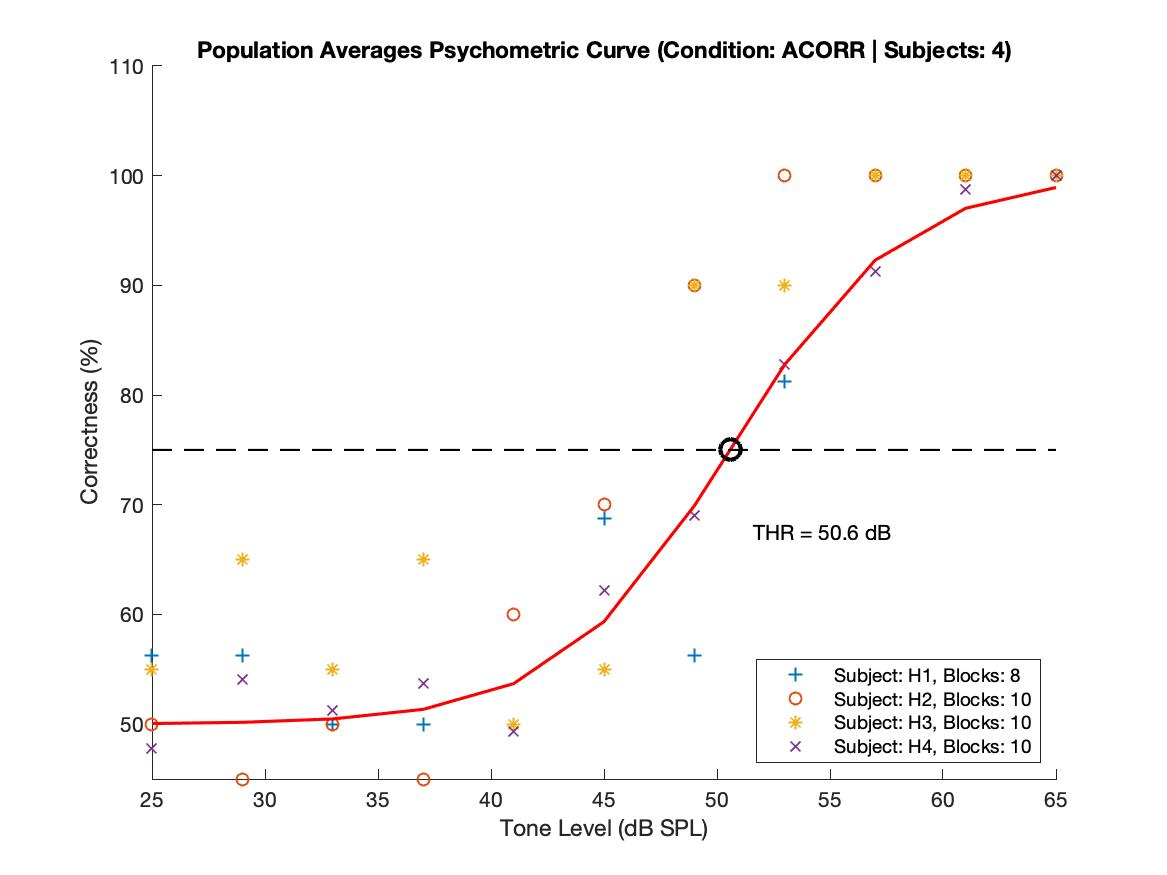
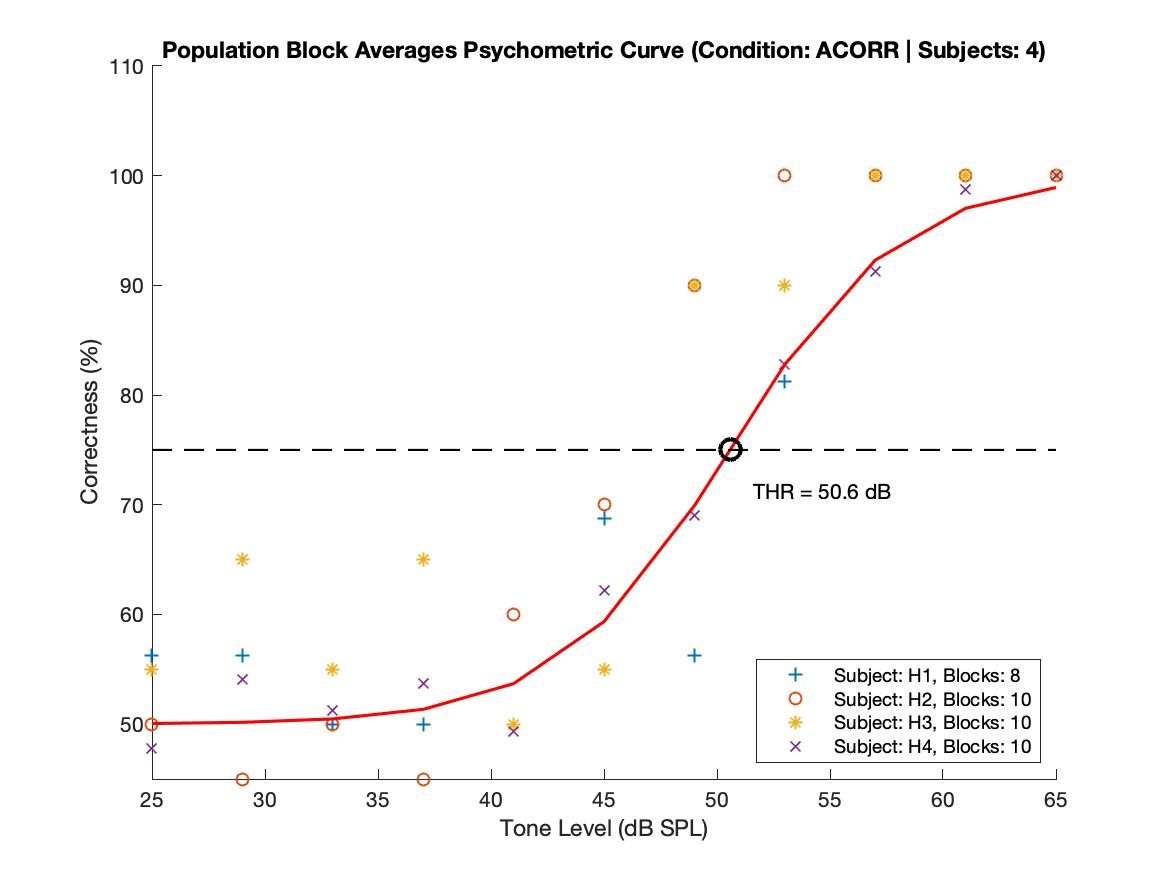
Psychometric Curve/Thresholds for all conditions

Changed region(s): [[0.1234, 0.0309, 0.8946, 0.0926], [0.6478, 0.5554, 0.7712, 0.6171]]

diff --git a/CMR_stimgeneration/PsychometricCurve_CMR.m b/CMR_stimgeneration/PsychometricCurve_CMR.m
@@ -6,7 +6,8 @@
 % Generate psychometric curves for REF, CORR, and ACORR conditions from user data for CMR pilot testing.
 clear all; close all; clc;
 %% Requirement
-CMRstimuli = input('\nType of CMR stimuli: ','s');
+criteria = 75; % percent correctness threshold
+CMRstimuli = input('\nCMR stimuli: ','s');
 %% Load subject's matlab data file
 % Load all blocks from user files from CMRpilot_results folder
 fprintf('\nAnalyze individual subject data -- 1'); 
@@ -21,7 +22,7 @@ if menuresponse == 1
     userid = input('\nUser ID: ','s');
     blocks = input('Number of blocks: ');
     cd CMRpilot_results % open pilot data folder
-    cd CMR2C % CHANGE FOLDER TO TYPE OF STIMULI
+    cd CMR2B % CHANGE FOLDER TO TYPE OF STIMULI
 % load block files for subject based on userid    
     for i = 1:blocks   
         filename = [userid '_Block' num2str(i) '_' CMRstimuli '_Pilot_Results.mat'];
@@ -73,7 +74,6 @@ hold off;
 counter = counter + 1; 
 end
 %% Psychometric curve generation average
-criteria = 75; % 
 REFplot = sprintf('Psychometric Curve (Condition: REF | User ID: %s)', userid);
 CORRplot = sprintf('Psychometric Curve (Condition: CORR | User ID: %s)', userid);
 ACORRplot = sprintf('Psychometric Curve (Condition: ACORR | User ID: %s)', userid);
@@ -81,15 +81,20 @@ ACORRplot = sprintf('Psychometric Curve (Condition: ACORR | User ID: %s)', useri
 figure(1); % REF 
 hold on;
 title(REFplot); xlabel('Tone Level (dB)'); ylabel('Correctness (%)'); xlim([levelVEC_tone_dBSPL(1) levelVEC_tone_dBSPL(end)]); ylim([0,110]);
-REF_TH = fitPsychometricFunctionCMR(REFresults_avg(:,1), REFresults_avg(:,(blocks+2)), 1, criteria);
+[REF_TH,REF_MSE,REF_fit_vec_dB,REF_fit_correctness_vec] = fitPsychometricFunctionCMR(REFresults_avg(:,1), REFresults_avg(:,(blocks+2)), 1, criteria);
 legend(plotlegend(1:blocks,:),'Location','SouthEast');
 hold off;
 
 figure(2); % CORR
 hold on;
 title(CORRplot); xlabel('Tone Level (dB)'); ylabel('Correctness (%)'); xlim([levelVEC_tone_dBSPL(1) levelVEC_tone_dBSPL(end)]); ylim([0,110]);
-CORR_TH = fitPsychometricFunctionCMR(CORRresults_avg(:,1), CORRresults_avg(:,(blocks+2)), 1, criteria);
-%plot(CORRresults_avg(:,1), CORRresults_avg(:,(blocks+2)), 'r', 'linewidth',1.5); CORR_TH = NaN;
+if min(CORRresults_avg(:,blocks+2)) > 75 % no intersection at 75%
+    plot(CORRresults_avg(:,1), CORRresults_avg(:,(blocks+2)), 'r', 'linewidth',1.5); CORR_TH = NaN;
+    CORR_fit_vec_dB = CORRresults_avg(:,1);
+    CORR_fit_correctness_vec = CORRresults_avg(:,(blocks+2));
+else
+    [CORR_TH,CORR_MSE,CORR_fit_vec_dB,CORR_fit_correctness_vec] = fitPsychometricFunctionCMR(CORRresults_avg(:,1), CORRresults_avg(:,(blocks+2)), 1, criteria);
+end
 legend(plotlegend(1:blocks,:),'Location','SouthEast');
 hold off;
 
@@ -97,18 +102,35 @@ figure(3); % ACORR
 
 hold on;
 title(ACORRplot); xlabel('Tone Level (dB)'); ylabel('Correctness (%)'); xlim([levelVEC_tone_dBSPL(1) levelVEC_tone_dBSPL(end)]); ylim([0,110]);
-ACORR_TH = fitPsychometricFunctionCMR(ACORRresults_avg(:,1), ACORRresults_avg(:,(blocks+2)), 1, criteria);
+[ACORR_TH,ACORR_MSE,ACORR_fit_vec_dB,ACORR_fit_correctness_vec] = fitPsychometricFunctionCMR(ACORRresults_avg(:,1), ACORRresults_avg(:,(blocks+2)), 1, criteria);
 legend(plotlegend(1:blocks,:),'Location','SouthEast');
 hold off;
 
+figure(4); % ALL conditions
+hold on;
+plot(REF_fit_vec_dB,REF_fit_correctness_vec,'k','linewidth',1.5); % REF curve fit - black
+plot(CORR_fit_vec_dB,CORR_fit_correctness_vec,'r','linewidth',1.5); % CORR curve fit - red
+plot(ACORR_fit_vec_dB,ACORR_fit_correctness_vec,'b','linewidth',1.5); % ACORR curve fit - blue
+plot(REF_TH,criteria,'ok','markersize',10,'linewidth',2); % REF Threshold
+text(REF_TH+1,.95*criteria,sprintf('REF = %.1f dB',REF_TH)); % REF Threshold label
+plot(CORR_TH,criteria,'ok','markersize',10,'linewidth',2); % CORR Threshold
+text(CORR_TH-1,.95*criteria,sprintf('CORR = %.1f dB',CORR_TH)); % CORR Threshold label
+plot(ACORR_TH,criteria,'ok','markersize',10,'linewidth',2); % ACORR Threshold
+text(ACORR_TH+1,.95*criteria,sprintf('ACORR = %.1f dB',ACORR_TH)); % ACORR Threshold label
+plot(levelVEC_tone_dBSPL,criteria*ones(size(levelVEC_tone_dBSPL)),'--k','markersize',10,'linewidth',1); % threshold line
+title('Population Block Average (All Conditions)'); 
+xlabel('Tone Level (dB SPL)'); ylabel('Correctness (%)'); xlim([levelVEC_tone_dBSPL(1) levelVEC_tone_dBSPL(end)]); ylim([45,110]);
+hold off;
+
 cd CMRpilot_results
-cd CMR2C % CHANGE FOLDER TO TYPE OF STIMULI
-cd Psychometric_Curves_CMR2C % CHANGE FOLDER TO TYPE OF STIMULI
-cd Subject_Average_CMR2C % CHANGE FOLDER TO TYPE OF STIMULI
+cd CMR2B % CHANGE FOLDER TO TYPE OF STIMULI
+cd Psychometric_Curves_CMR2B % CHANGE FOLDER TO TYPE OF STIMULI
+cd Subject_Average_CMR2B % CHANGE FOLDER TO TYPE OF STIMULI
 plotnameREF = sprintf('%s_Block_Averages_REF_%s_Pilot_Results.jpg',userid, CMRstimuli);
 plotnameCORR = sprintf('%s_Block_Averages_CORR_%s_Pilot_Results.jpg',userid, CMRstimuli);
 plotnameACORR = sprintf('%s_Block_Averages_ACORR_%s_Pilot_Results.jpg',userid, CMRstimuli);
-saveas(figure(1), plotnameREF); saveas(figure(2), plotnameCORR); saveas(figure(3), plotnameACORR);
+plotnameALL = sprintf('%s_Block_Averages_ALL_%s_Pilot_Results.jpg',userid, CMRstimuli);
+saveas(figure(1), plotnameREF); saveas(figure(2), plotnameCORR); saveas(figure(3), plotnameACORR); saveas(figure(4), plotnameALL);
 cd ../
 cd ../
 cd ../
@@ -128,7 +150,7 @@ REFtotalavg = []; CORRtotalavg = []; ACORRtotalavg = [];
 if menuresponse == 2
     numsubjects = input('\nNumber of Subjects: ');
     cd CMRpilot_results % open pilot data folder   
-    cd CMR2C % CHANGE FOLDER TO TYPE OF STIMULI
+    cd CMR2B % CHANGE FOLDER TO TYPE OF STIMULI
 % load files for each subject based on userid  
 plotlegend = string(zeros(numsubjects,1));
 for i = 1:numsubjects
@@ -198,44 +220,57 @@ hold off;
 counter = counter + 1; 
 end
 %% Psychometric curve generation average
-criteria = 75; % 
-REFplot = sprintf('Population Averages Psychometric Curve (Condition: REF | Subjects: %d)',numsubjects);
-CORRplot = sprintf('Population Averages Psychometric Curve (Condition: CORR | Subjects: %d)',numsubjects');
-ACORRplot = sprintf('Population Averages Psychometric Curve (Condition: ACORR | Subjects: %d)',numsubjects');
+REFplot = sprintf('Population Block Averages Psychometric Curve (Condition: REF | Subjects: %d)',numsubjects);
+CORRplot = sprintf('Population Block Averages Psychometric Curve (Condition: CORR | Subjects: %d)',numsubjects');
+ACORRplot = sprintf('Population Block Averages Psychometric Curve (Condition: ACORR | Subjects: %d)',numsubjects');
 
 figure(1); % REF 
 hold on;
-REF_TH = fitPsychometricFunctionCMR(REFtotalavg(:,1), REFtotalavg(:,(numsubjects+1)), 1, criteria);
+[REF_TH,REF_MSE,REF_fit_vec_dB,REF_fit_correctness_vec] = fitPsychometricFunctionCMR(REFtotalavg(:,1), REFtotalavg(:,(numsubjects+1)), 1, criteria);
 title(REFplot); xlabel('Tone Level (dB SPL)'); ylabel('Correctness (%)'); xlim([levelVEC_tone_dBSPL(1) levelVEC_tone_dBSPL(end)]);ylim([45,110]);
 legend(plotlegend(1:numsubjects,:),'Location','southeast');
 hold off;
 
 figure(2); % CORR
 hold on;
-CORR_TH = fitPsychometricFunctionCMR(CORRtotalavg(:,1), CORRtotalavg(:,(numsubjects+1)), 1, criteria);
+if min(CORRtotalavg(:,numsubjects+1)) > 75 % no intersection at 75%
+    plot(CORRtotalavg(:,1), CORRtotalavg(:,(numsubjects+1)), 'r', 'linewidth',1.5); CORR_TH = NaN;
+    CORR_fit_vec_dB = CORRtotalavg(:,1);
+    CORR_fit_correctness_vec = CORRtotalavg(:,(numsubjects+1));
+else
+[CORR_TH,CORR_MSE,CORR_fit_vec_dB,CORR_fit_correctness_vec] = fitPsychometricFunctionCMR(CORRtotalavg(:,1), CORRtotalavg(:,(numsubjects+1)), 1, criteria);
+end
 title(CORRplot); xlabel('Tone Level (dB SPL)'); ylabel('Correctness (%)'); ylim([45,110]);
 legend(plotlegend(1:numsubjects,:),'Location','southeast');
 hold off;
 
 figure(3); % ACORR
 hold on;
-ACORR_TH = fitPsychometricFunctionCMR(ACORRtotalavg(:,1), ACORRtotalavg(:,(numsubjects+1)), 1, criteria);
+[ACORR_TH,ACORR_MSE,ACORR_fit_vec_dB,ACORR_fit_correctness_vec] = fitPsychometricFunctionCMR(ACORRtotalavg(:,1), ACORRtotalavg(:,(numsubjects+1)), 1, criteria);
 title(ACORRplot); xlabel('Tone Level (dB SPL)'); ylabel('Correctness (%)'); xlim([levelVEC_tone_dBSPL(1) levelVEC_tone_dBSPL(end)]); ylim([45,110]);
 legend(plotlegend(1:numsubjects,:),'Location','southeast');
 hold off;
 
 figure(4); % ALL conditions
 hold on;
-fitPsychometricFunctionCMR(REFtotalavg(:,1), REFtotalavg(:,(numsubjects+1)), 1, criteria);
-fitPsychometricFunctionCMR(CORRtotalavg(:,1), CORRtotalavg(:,(numsubjects+1)), 1, criteria);
-fitPsychometricFunctionCMR(ACORRtotalavg(:,1), ACORRtotalavg(:,(numsubjects+1)), 1, criteria);
-title('Population Average (All Conditions)'); 
+plot(REF_fit_vec_dB,REF_fit_correctness_vec,'k','linewidth',1.5); % REF curve fit - black
+plot(CORR_fit_vec_dB,CORR_fit_correctness_vec,'r','linewidth',1.5); % CORR curve fit - red
+plot(ACORR_fit_vec_dB,ACORR_fit_correctness_vec,'b','linewidth',1.5); % ACORR curve fit - blue
+plot(REF_TH,criteria,'ok','markersize',10,'linewidth',2); % REF Threshold
+text(REF_TH+1,.95*criteria,sprintf('REF = %.1f dB',REF_TH)); % REF Threshold label
+plot(CORR_TH,criteria,'ok','markersize',10,'linewidth',2); % CORR Threshold
+text(CORR_TH-1,.95*criteria,sprintf('CORR = %.1f dB',CORR_TH)); % CORR Threshold label
+plot(ACORR_TH,criteria,'ok','markersize',10,'linewidth',2); % ACORR Threshold
+text(ACORR_TH+1,.95*criteria,sprintf('ACORR = %.1f dB',ACORR_TH)); % ACORR Threshold label
+plot(levelVEC_tone_dBSPL,criteria*ones(size(levelVEC_tone_dBSPL)),'--k','markersize',10,'linewidth',1); % threshold line
+title('Population Block Average (All Conditions)'); 
 xlabel('Tone Level (dB SPL)'); ylabel('Correctness (%)'); xlim([levelVEC_tone_dBSPL(1) levelVEC_tone_dBSPL(end)]); ylim([45,110]);
+hold off;
 
 cd CMRpilot_results % open pilot data folder  
-cd CMR2C % CHANGE FOLDER TO TYPE OF STIMULI
-cd Psychometric_Curves_CMR2C % CHANGE FOLDER TO TYPE OF STIMULI
-cd All_Subjects_CMR2C % CHANGE FOLDER TO TYPE OF STIMULI
+cd CMR2B % CHANGE FOLDER TO TYPE OF STIMULI
+cd Psychometric_Curves_CMR2B % CHANGE FOLDER TO TYPE OF STIMULI
+cd All_Subjects_CMR2B % CHANGE FOLDER TO TYPE OF STIMULI
 plotnameREF = sprintf('Subject_Averages_REF_%s_Pilot_Results.jpg', CMRstimuli);
 plotnameCORR = sprintf('Subject_Averages_CORR_%s_Pilot_Results.jpg', CMRstimuli);
 plotnameACORR = sprintf('Subject_Averages_ACORR_%s_Pilot_Results.jpg', CMRstimuli);
@@ -254,10 +289,11 @@ fprintf('\nREF:%6.1f dB',REF_TH); fprintf('\nCORR:%6.1f dB',CORR_TH); fprintf('\
 fprintf('\n\nCMR Score (ACORR - CORR):%6.1f dB', CMR_AC); fprintf('\nCMR Score (REF - CORR):%6.1f dB', CMR_RC);
 end
 %% Notes:
-% 2. mu = average of CMR scores (ACORR - CORR) ~12 dB   (CORR - REF) ~3 dB
-% 3. calculate variability between subject CMR scores
+% 1. Code to choose curve fitting for CORR when threshold is not available 
+% (% correctness > 75% for all tone levels) -- DONE
+% 2. Plot all three conditions in one plot for both menu options -- DONE
 
-% Code to choose curve fitting for CORR when threshold is not available 
-% (% correctness > 75% for all tone levels)
-
+% Analysis
+% - mu = average of CMR scores (ACORR - CORR) ~12 dB   (CORR - REF) ~3 dB
+% - calculate variability between subject CMR scores
 

diff --git a/CMR_stimgeneration/fitPsychometricFunctionCMR.m b/CMR_stimgeneration/fitPsychometricFunctionCMR.m
@@ -31,7 +31,7 @@ if plotYN
     plot(x,crit*ones(size(x)),'--k','markersize',10,'linewidth',1)
 	xlabel('dB')
 	ylabel('Correctness (%)')
-	text(TH_dB+1,.9*crit,sprintf('THR = %.1f dB',TH_dB))
+	text(TH_dB+1,.95*crit,sprintf('THR = %.1f dB',TH_dB))
 	ylim([0 110])
 end
 fit_vec_dB = x;
